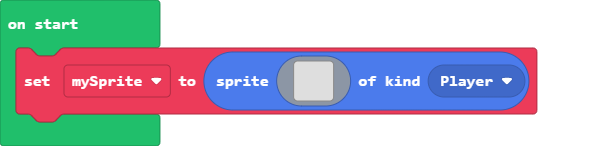
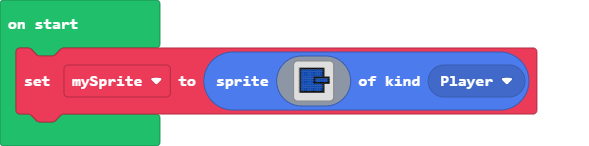
Update main.blocks, main.ts

Changed region(s): [[0.489, 0.4384, 0.5806, 0.6575]]

diff --git a/main.ts b/main.ts
@@ -1,18 +1,18 @@
 let mySprite = sprites.create(img`
-    . . . . . . . . . . . . . . . . 
-    . . . . . . . . . . . . . . . . 
-    . . . . . . . . . . . . . . . . 
-    . . . . . . . . . . . . . . . . 
-    . . . . . . . . . . . . . . . . 
-    . . . . . . . . . . . . . . . . 
-    . . . . . . . . . . . . . . . . 
-    . . . . . . . . . . . . . . . . 
-    . . . . . . . . . . . . . . . . 
-    . . . . . . . . . . . . . . . . 
-    . . . . . . . . . . . . . . . . 
-    . . . . . . . . . . . . . . . . 
-    . . . . . . . . . . . . . . . . 
-    . . . . . . . . . . . . . . . . 
-    . . . . . . . . . . . . . . . . 
-    . . . . . . . . . . . . . . . . 
+    . . . . . . . . . . . . . . . . . . 
+    . f f f f f f f f f f f f f f . . . 
+    . f 8 8 8 8 8 8 8 8 8 8 8 8 f . . . 
+    . f 8 8 8 8 8 8 8 8 8 8 8 8 f . . . 
+    . f 8 8 8 8 8 8 8 8 8 8 8 8 f . . . 
+    . f 8 8 8 8 8 8 8 8 8 8 8 8 f . . . 
+    . f 8 8 8 8 8 8 8 f f f f f f f f f 
+    . f 8 8 8 8 8 8 8 f 8 8 8 8 8 8 8 f 
+    . f 8 8 8 8 8 8 8 f 8 8 8 8 8 8 8 f 
+    . f 8 8 8 8 8 8 8 f f f f f f f f f 
+    . f 8 8 8 8 8 8 8 8 8 8 8 8 f . . . 
+    . f 8 8 8 8 8 8 8 8 8 8 8 8 f . . . 
+    . f 8 8 8 8 8 8 8 8 8 8 8 8 f . . . 
+    . f 8 8 8 8 8 8 8 8 8 8 8 8 f . . . 
+    . f f f f f f f f f f f f f f . . . 
+    . . . . . . . . . . . . . . . . . . 
     `, SpriteKind.Player)
